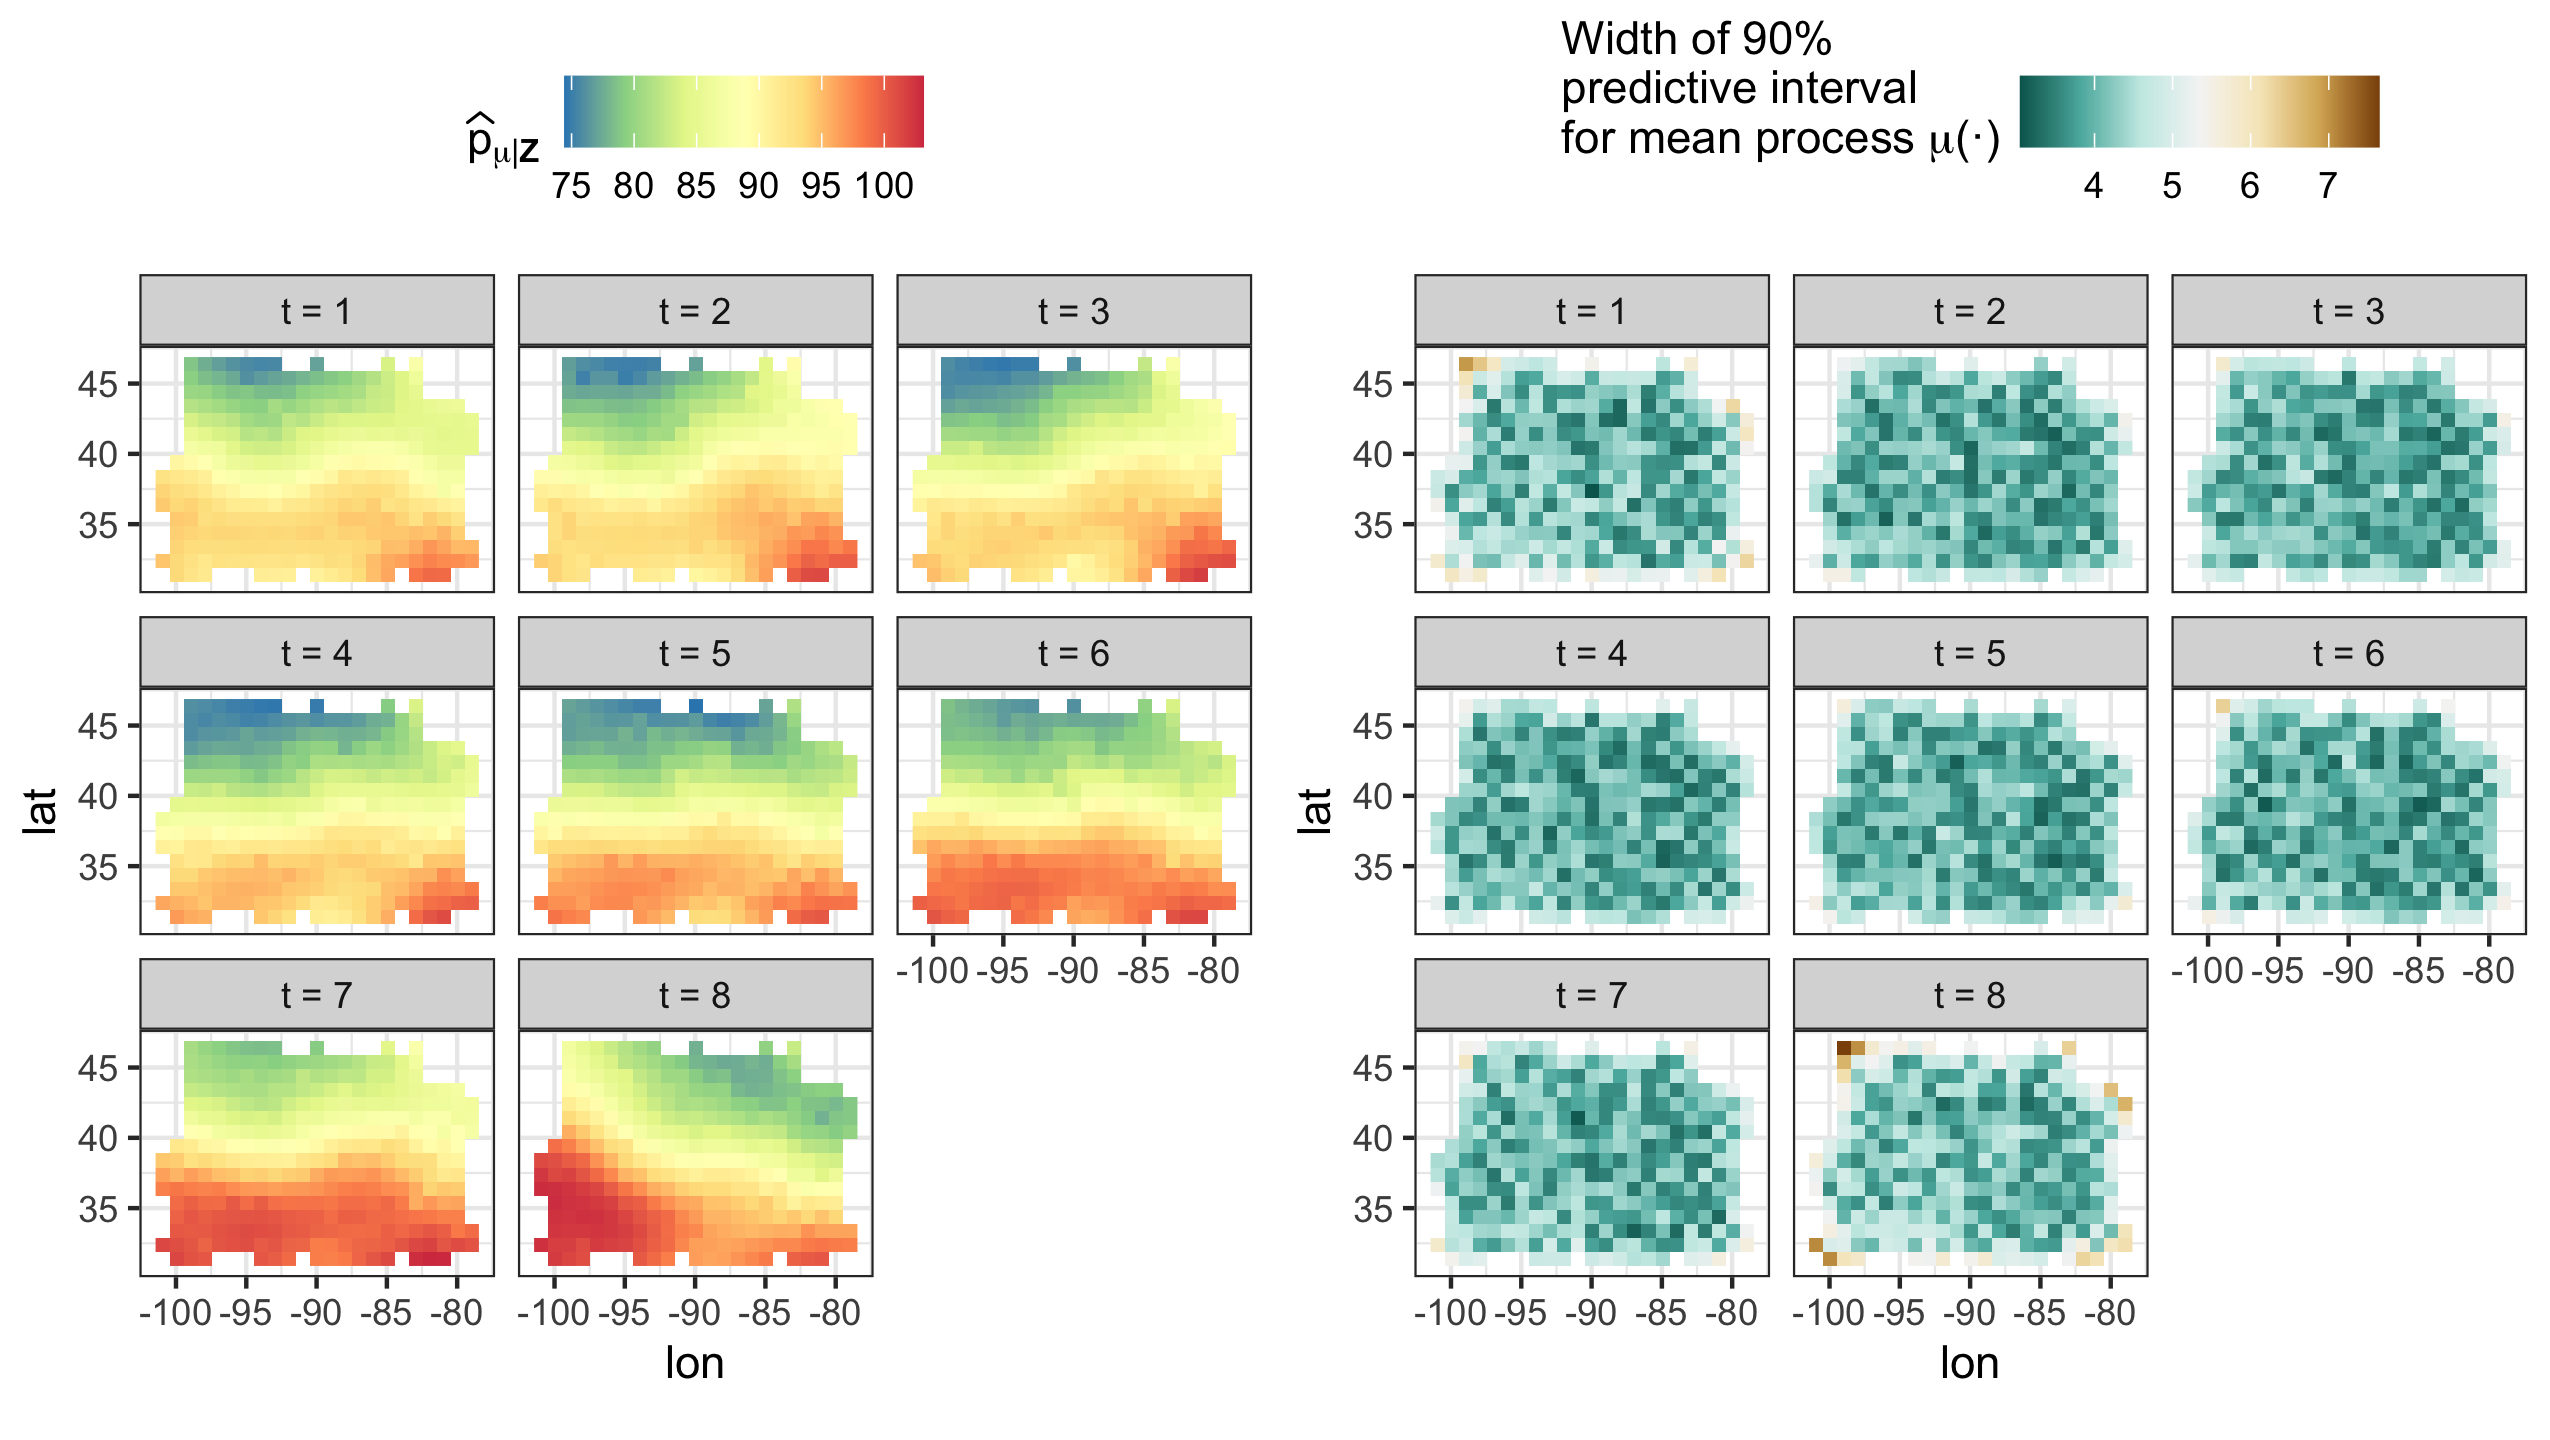
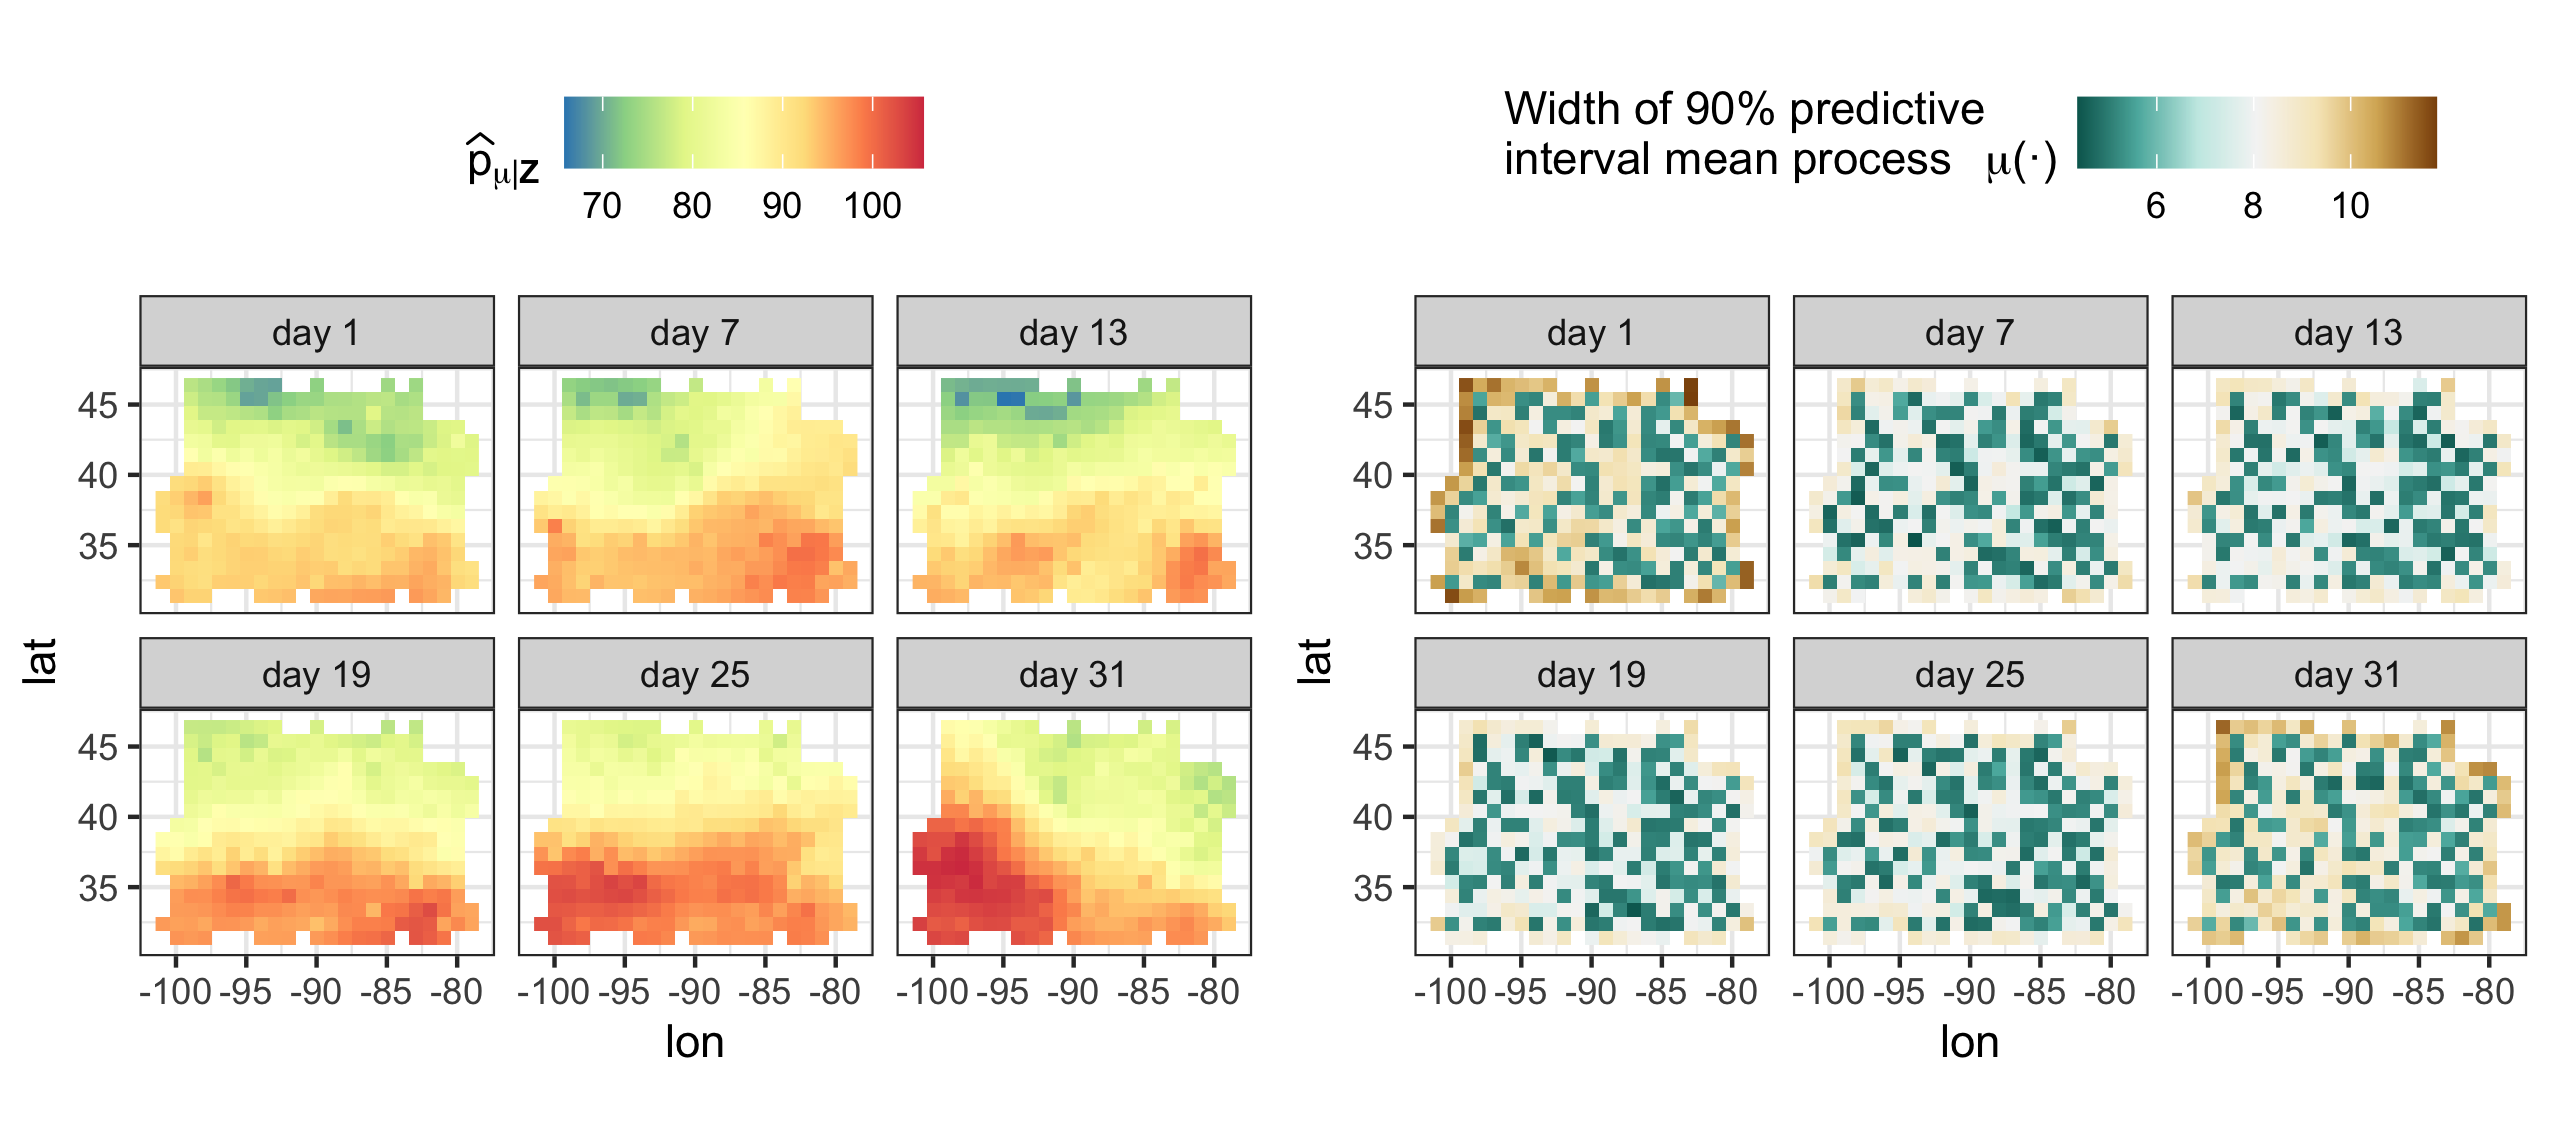
Updated plotting functions, and README

diff --git a/README.md b/README.md
@@ -119,7 +119,7 @@ pred <- predict(S)                            # prediction stage
 
 ## Plotting
 plot_list <- plot(S, pred, zdf)
-ggarrange(plot_list$data, plot_list$p_mu, plot_list$interval_90_mu, 
+ggarrange(plot_list$z, plot_list$p_mu, plot_list$interval_90_mu, 
           nrow = 1, legend = "top")
 
              
@@ -147,21 +147,33 @@ Tmax <- within(Tmax, {time = as.Date(paste(year,month,day,sep="-"))})
 STObj <- stConstruct(x = Tmax, space = c("lon","lat"), time = "time", interval = TRUE)
 STObj$std <- 2
 
-## BAUs: set spatial BAUs as 1x1 pixels, temporal BAUs as 4 day intervals
-BAUs <- auto_BAUs(manifold = STplane(), cellsize = c(1, 1, 4), data = STObj, tunit = "days")
-BAUs$fs <- 1 # scalar fine-scale variance matrix, implicit in previous examples
+## BAUs
+## Choose spatial BAUs as 1x1 pixels, temporal BAUs as 1 day intervals
+BAUs <- auto_BAUs(manifold = STplane(), 
+                       cellsize = c(1, 1, 1),    
+                       data=STObj, tunit = "days")
+BAUs$fs <- 1 # scale fine-scale variance matrix, implicit in previous examples
 
 ## Basis functions
-G <- auto_basis(manifold = STplane(), data = STObj, nres = 1, tunit = "days")
+G <- auto_basis(manifold = STplane(), data = STObj, nres = 2, tunit = "days")
 
 ## Run FRK
 S <- FRK(f = z ~ 1 + lat, data = list(STObj), 
          basis = G, BAUs = BAUs, est_error = FALSE, method = "TMB")
 pred <- predict(S)
 
-## Plotting
-plot_list <- plot(S, pred) 
-ggarrange(plot_list$p_mu, plot_list$interval_90_mu, align = "hv", legend = "top")
+## Plotting: include only some times via the argument subset_time
+plot_list <- plot(S, pred, subset_time = c(1, 7, 13, 19, 25, 31)) 
+
+## Apply a labeller so the facet shows day x rather than just x
+facet_names <- paste0("day ", unique(pred$newdata$t))
+names(facet_names) <- unique(pred$newdata$t)
+plot_list <- lapply(
+  plot_list, 
+  function(gg) gg + facet_wrap(~t, labeller = as_labeller(facet_names)))
+
+## Plot the predictions and uncertainty
+ggarrange(plot_list$p_mu, plot_list$interval_90_mu, legend = "top") 
 
 
 ```
@@ -169,7 +181,7 @@ ggarrange(plot_list$p_mu, plot_list$interval_90_mu, align = "hv", legend = "top"
 <!---
 ggsave( 
   filename = "ST_data.png", device = "png", 
-  width = 10, height = 4,
+  width = 8.5, height = 3.8,
   path = "~/Desktop/"
 )
 --->
